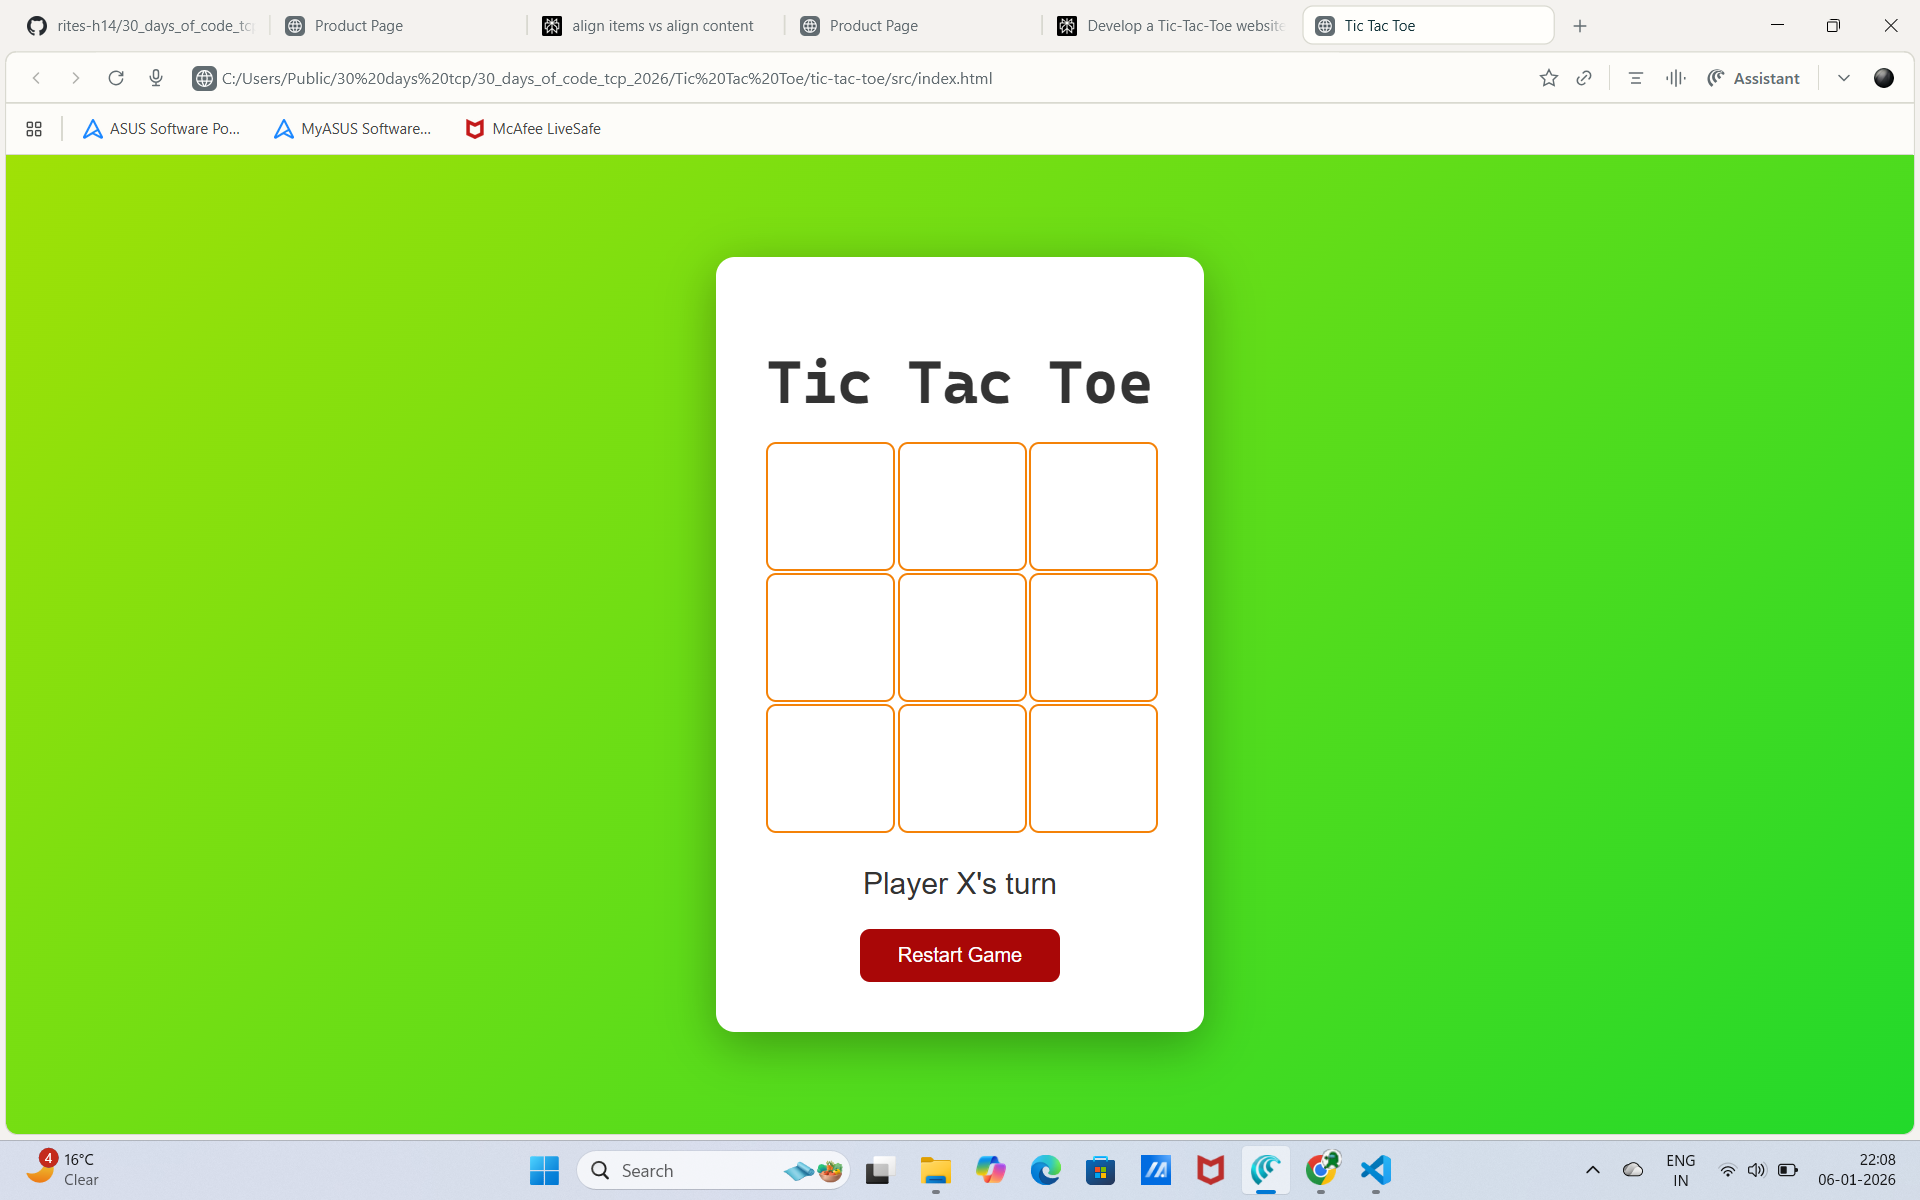
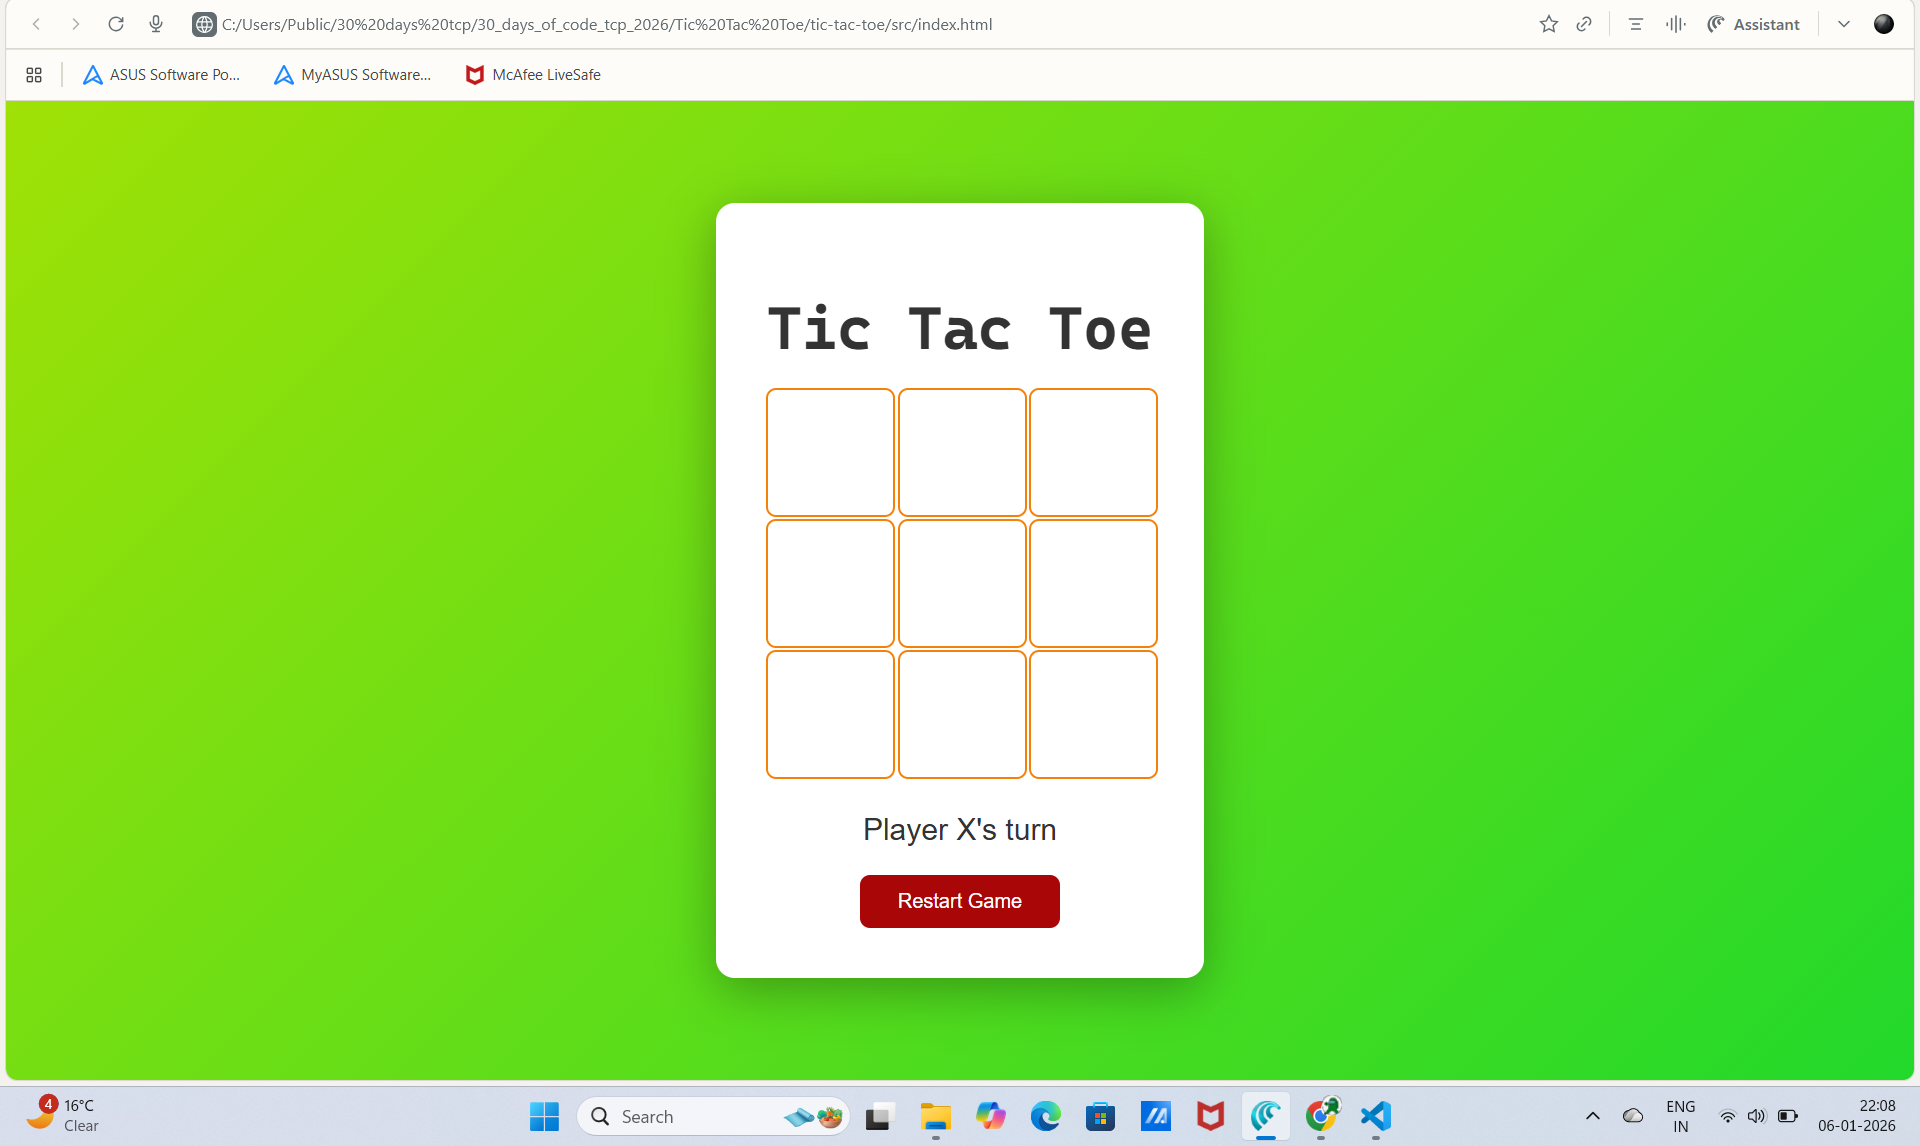
changed imgs

diff --git a/Prodcut page/index.html b/Prodcut page/index.html
@@ -20,7 +20,7 @@
                 <li><a href="contact.html">Contact</a></li>
             </ul>
         </nav>
-        <main width="100%">
+        <main>
             <section class="product-details">
                 <h2>About the Product</h2>
                 <div class="photos">
